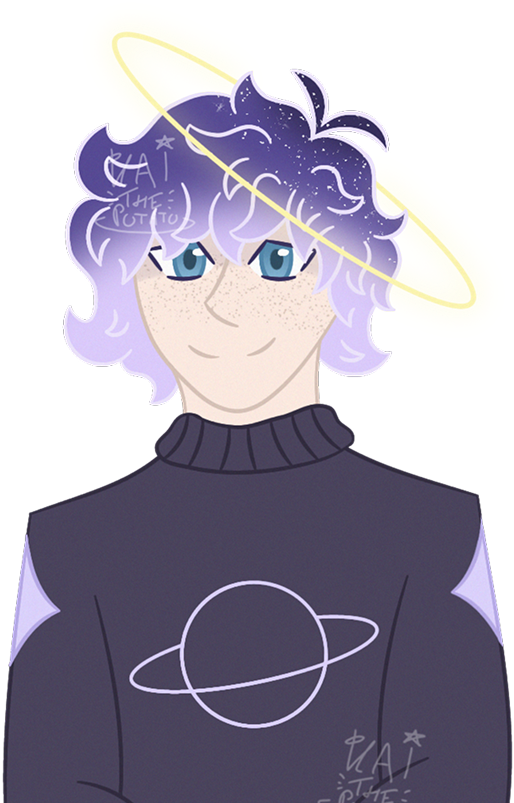
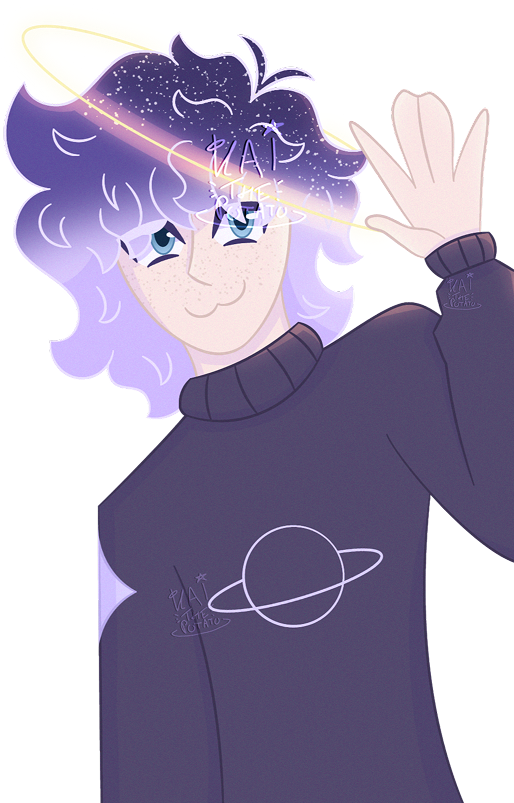
Added new Kai art

diff --git a/nationPages/vrieslandPages/castPages/kai.html b/nationPages/vrieslandPages/castPages/kai.html
@@ -109,6 +109,11 @@
                         <img src="../vrieslandImg/castImg/kaiImg/fullKai.png" alt="kaiFullBody">
                         <a class="creditLink" href="https://www.instagram.com/ur_artsy_potato_kai/" target="_blank" rel="noopener noreferrer">@Ur_Artsy_Potato_Kai</a>
                     </div>
+
+                    <div class="artItem">
+                        <img src="../vrieslandImg/castImg/kaiImg/headshotKai.png" alt="kaiHeadshot">
+                        <a class="creditLink" href="https://www.instagram.com/ur_artsy_potato_kai/" target="_blank" rel="noopener noreferrer">@Ur_Artsy_Potato_Kai</a>
+                    </div>
                 </div>
 
             </div>
